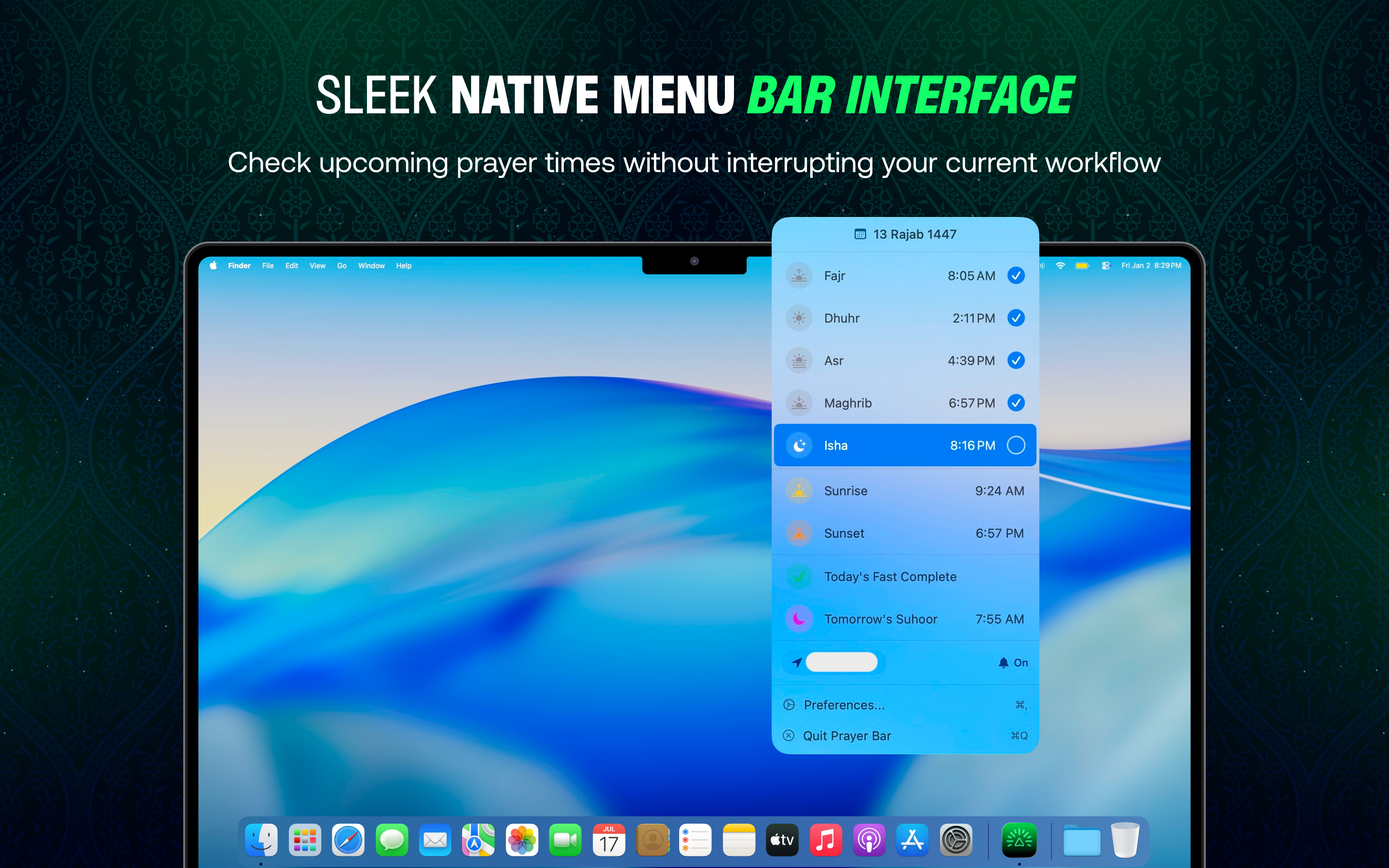
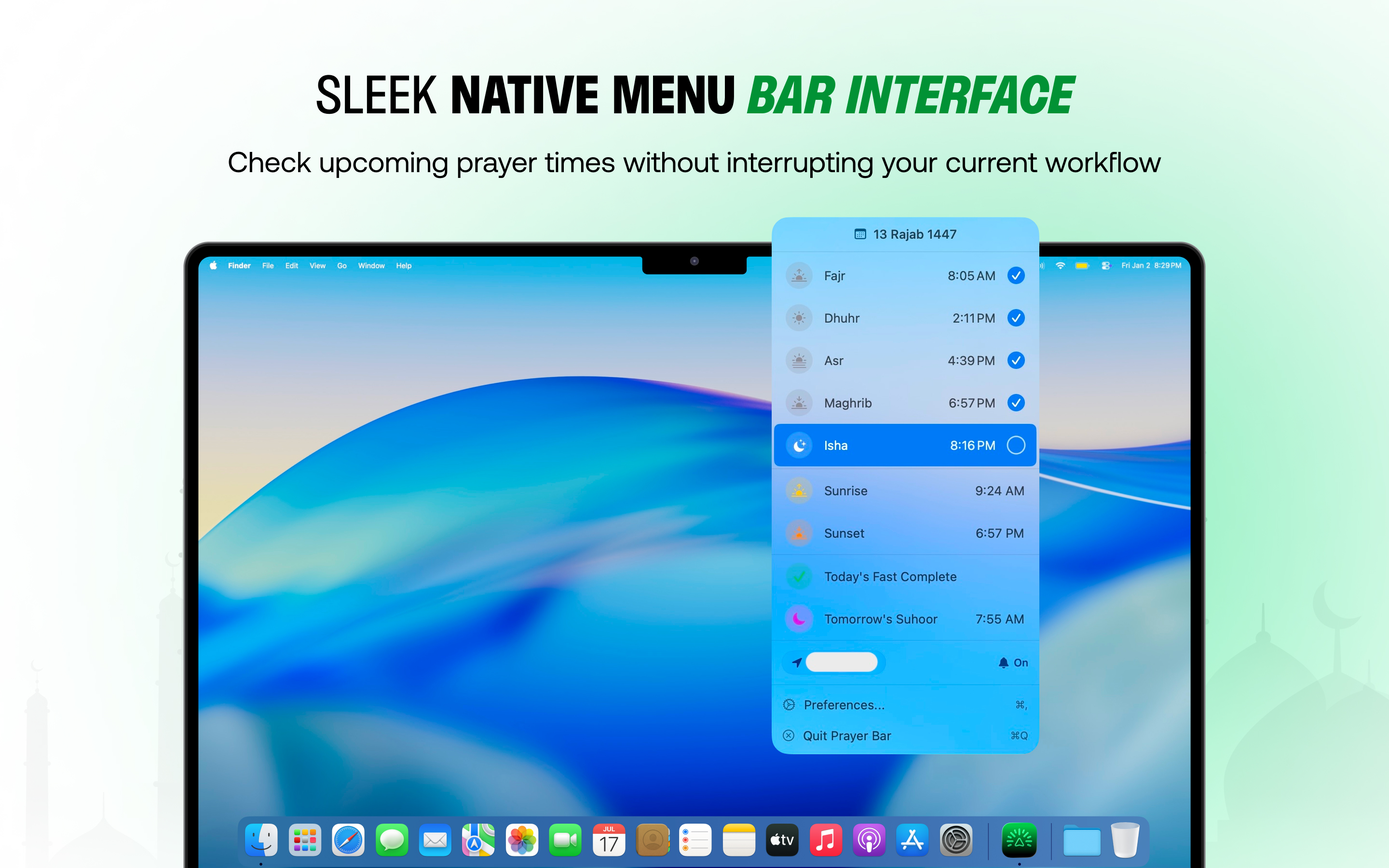
Revert to system-based dark mode (before forced dark mode changes)

diff --git a/style.css b/style.css
@@ -8,10 +8,10 @@
 :root {
     --green: #22c55e;
     --green-dark: #16a34a;
-    --text: #f5f5f7;
-    --text-secondary: #a1a1a6;
-    --bg: #000000;
-    --bg-secondary: #1d1d1f;
+    --text: #1d1d1f;
+    --text-secondary: #86868b;
+    --bg: #ffffff;
+    --bg-secondary: #f5f5f7;
 }
 
 html {
@@ -34,7 +34,7 @@ body {
     justify-content: center;
     text-align: center;
     padding: 120px 24px;
-    background: linear-gradient(180deg, #1d1d1f 0%, #000000 100%);
+    background: linear-gradient(180deg, var(--bg-secondary) 0%, var(--bg) 100%);
 }
 
 .hero-content {
@@ -118,7 +118,7 @@ body {
 }
 
 .showcase:nth-child(even) {
-    background: var(--bg);
+    background: var(--bg-secondary);
 }
 
 .showcase-content {
@@ -159,7 +159,7 @@ body {
     width: 100%;
     height: auto;
     border-radius: 16px;
-    box-shadow: 0 40px 80px rgba(0, 0, 0, 0.4);
+    box-shadow: 0 40px 80px rgba(0, 0, 0, 0.1);
 }
 
 /* Features Grid */
@@ -269,7 +269,7 @@ body {
 .cta {
     padding: 120px 24px;
     text-align: center;
-    background: var(--bg);
+    background: var(--bg-secondary);
 }
 
 .cta h2 {
@@ -287,7 +287,7 @@ body {
 /* Footer */
 footer {
     padding: 32px 24px;
-    border-top: 1px solid rgba(255, 255, 255, 0.1);
+    border-top: 1px solid rgba(0, 0, 0, 0.08);
 }
 
 .footer-content {
@@ -381,11 +381,32 @@ footer {
     }
 }
 
+/* Dark Mode */
+@media (prefers-color-scheme: dark) {
+    :root {
+        --text: #f5f5f7;
+        --text-secondary: #a1a1a6;
+        --bg: #000000;
+        --bg-secondary: #1d1d1f;
+    }
+
+    .hero {
+        background: linear-gradient(180deg, #1d1d1f 0%, #000000 100%);
+    }
+
+    .showcase-image img {
+        box-shadow: 0 40px 80px rgba(0, 0, 0, 0.4);
+    }
+
+    footer {
+        border-top-color: rgba(255, 255, 255, 0.1);
+    }
+}
 
 /* Policy Pages */
 .policy-nav {
     padding: 20px 24px;
-    border-bottom: 1px solid rgba(255, 255, 255, 0.1);
+    border-bottom: 1px solid rgba(0, 0, 0, 0.08);
 }
 
 .back-link {
@@ -462,7 +483,7 @@ footer {
 
 /* Support Page */
 .support-page .contact-section {
-    background: #1d1d1f;
+    background: var(--bg-secondary);
     padding: 32px;
     border-radius: 16px;
     text-align: center;
@@ -480,7 +501,7 @@ footer {
 
 .faq-item {
     padding: 24px 0;
-    border-bottom: 1px solid rgba(255, 255, 255, 0.1);
+    border-bottom: 1px solid rgba(0, 0, 0, 0.08);
 }
 
 .faq-item:last-child {
@@ -511,5 +532,5 @@ footer {
 }
 
 .btn-secondary:hover {
-    background: #2d2d2f;
+    background: #e5e5e7;
 }
